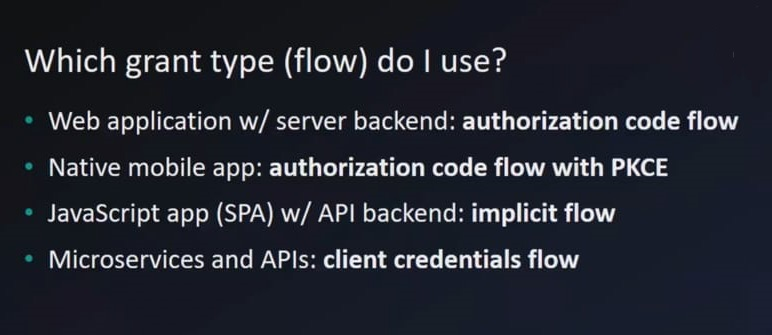
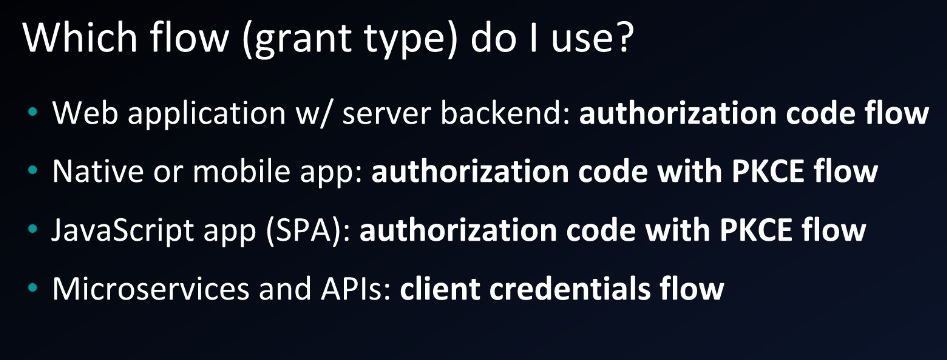
update notes

diff --git a/_notes/oauth2.md b/_notes/oauth2.md
@@ -45,7 +45,7 @@ excerpt: "Intro to Oauth2"
 - `state` is used to prevevnt CSRF.
 - The client registers with authorization server and gets `client ID` and `client secret` which are later used in front and back channel communication respectively. It also has to specify `redirect URI/Callback`.
 
-## Starting the Oauth2 code flow
+## Starting the Oauth2 authorization code flow
 ![Starting the flow](/assets/images/oauth2/starting_flow.jpg)
 
 ## Calling back
@@ -120,8 +120,17 @@ excerpt: "Intro to Oauth2"
 ## Mobile flow example
 ![Mobile flow example](/assets/images/oauth2/mobile_flow_example.jpg)
 
+## Authorization code with PKCE part1
+![Authorization code with PKCE part1](/assets/images/oauth2/authcode_with_pkce1.jpg)
+
+## Authorization code with PKCE part2
+![Authorization code with PKCE part2](/assets/images/oauth2/authcode_with_pkce2.jpg)
+
 ## Implicit Flow example
 ![Implicit Flow example](/assets/images/oauth2/implicit_flow_example.jpg)
+
+## Oauth discovery
+![Oauth discovery](/assets/images/oauth2/oauth_discovery.jpg)
 
 ### Third party(SAML) integration example
 ![Third party integration example](/assets/images/oauth2/sso_third_party.jpg)
